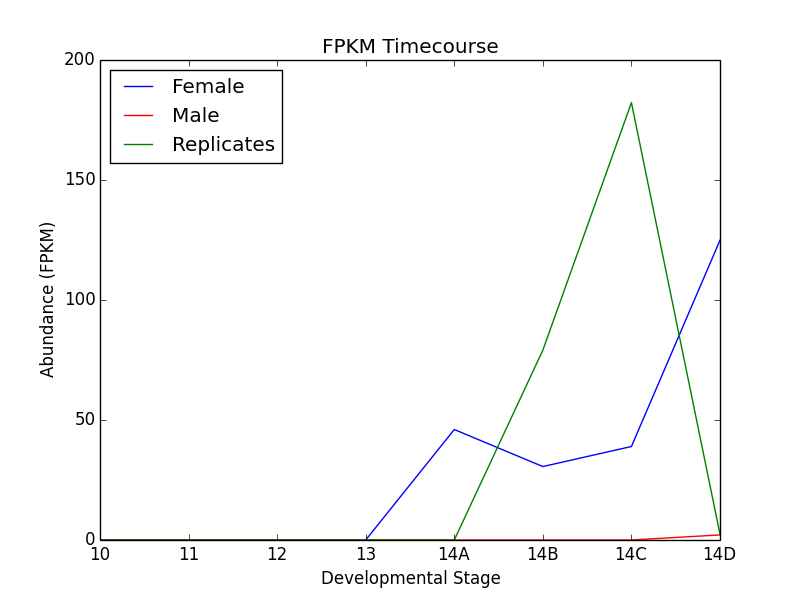
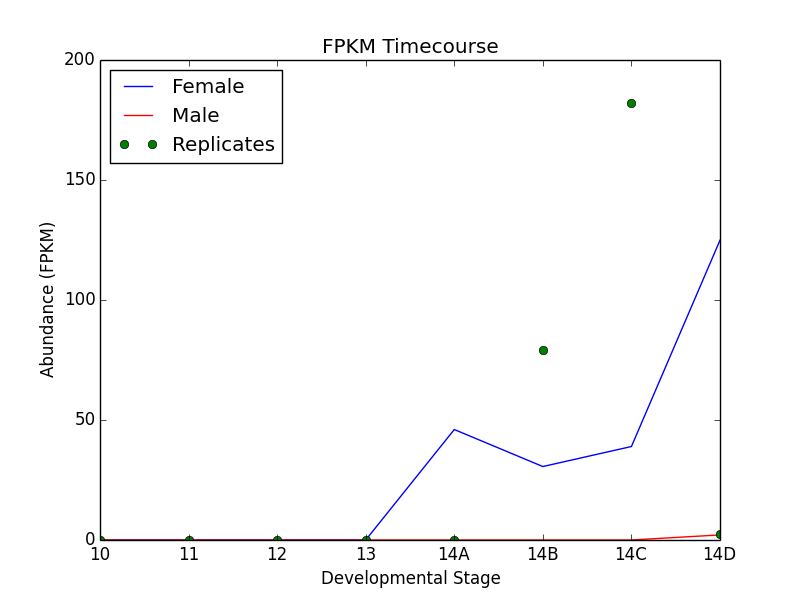
adjusted replicates

diff --git a/day3/lunch/lunch1.py b/day3/lunch/lunch1.py
@@ -29,7 +29,7 @@ plt.figure()
 plt.title("FPKM Timecourse")
 plt.plot(Sxlfemale, "b", label = "Female")
 plt.plot(Sxlmale, "r", label = "Male")
-plt.plot(Sxlreplicates, "g", label = "Replicates")
+plt.plot(range(len(Sxlreplicates)),Sxlreplicates,'o', color = "g", label = "Replicates")
 plt.legend(loc="upper left")
 plt.xlabel("Developmental Stage")
 plt.ylabel("Abundance (FPKM)")
